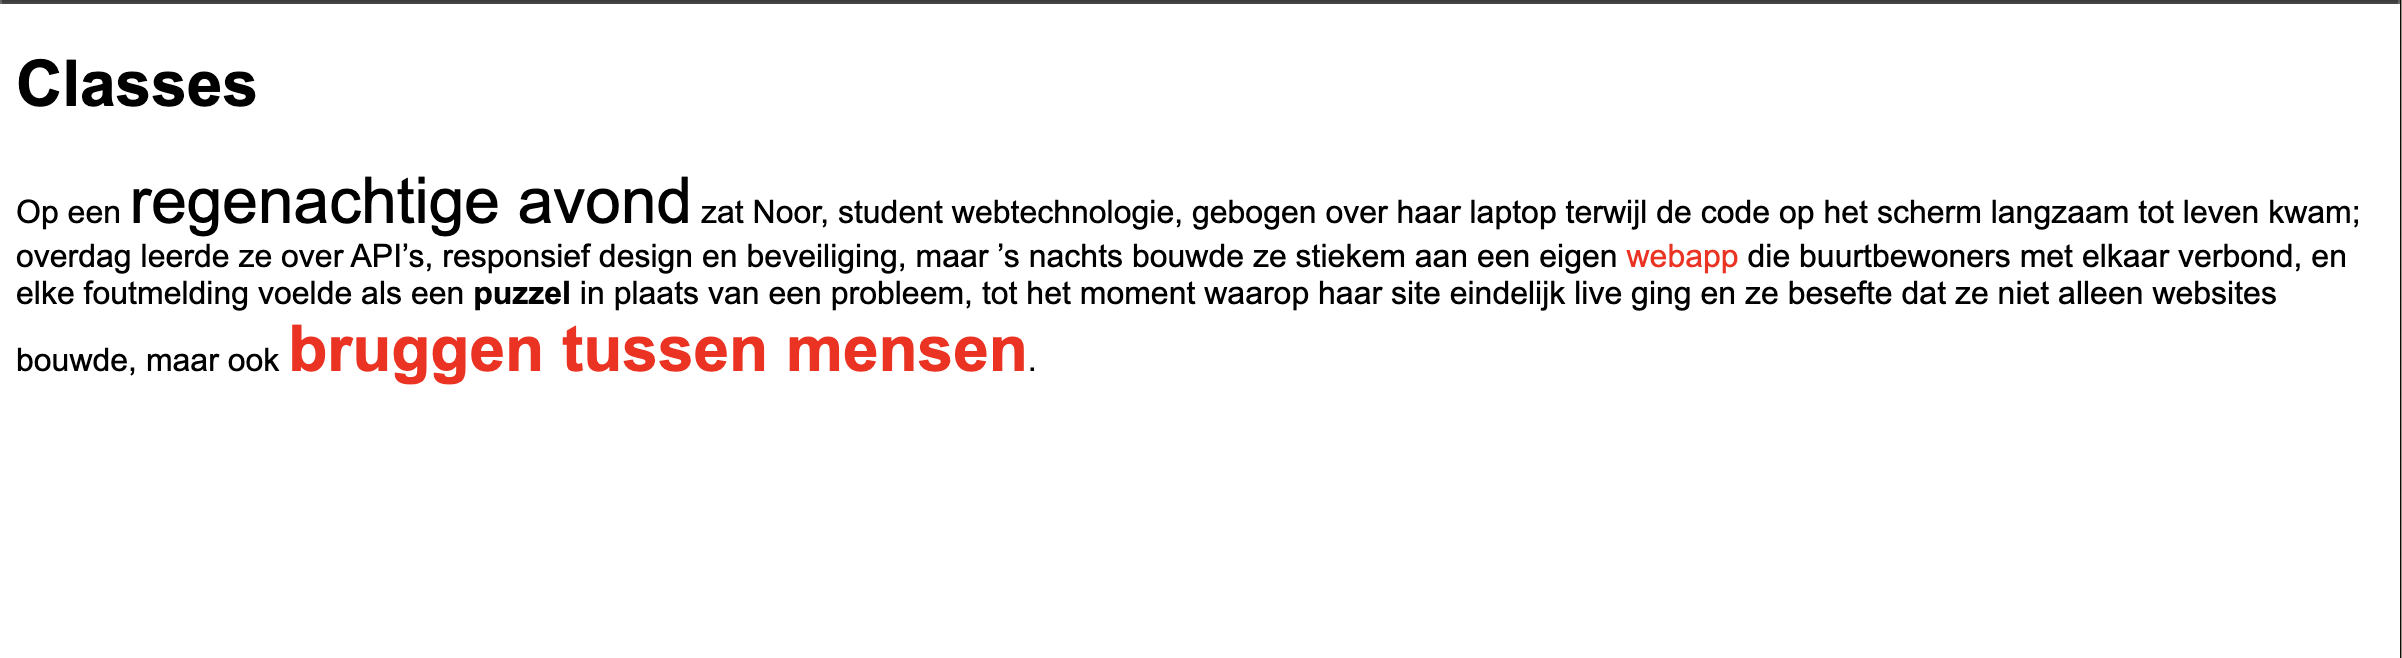
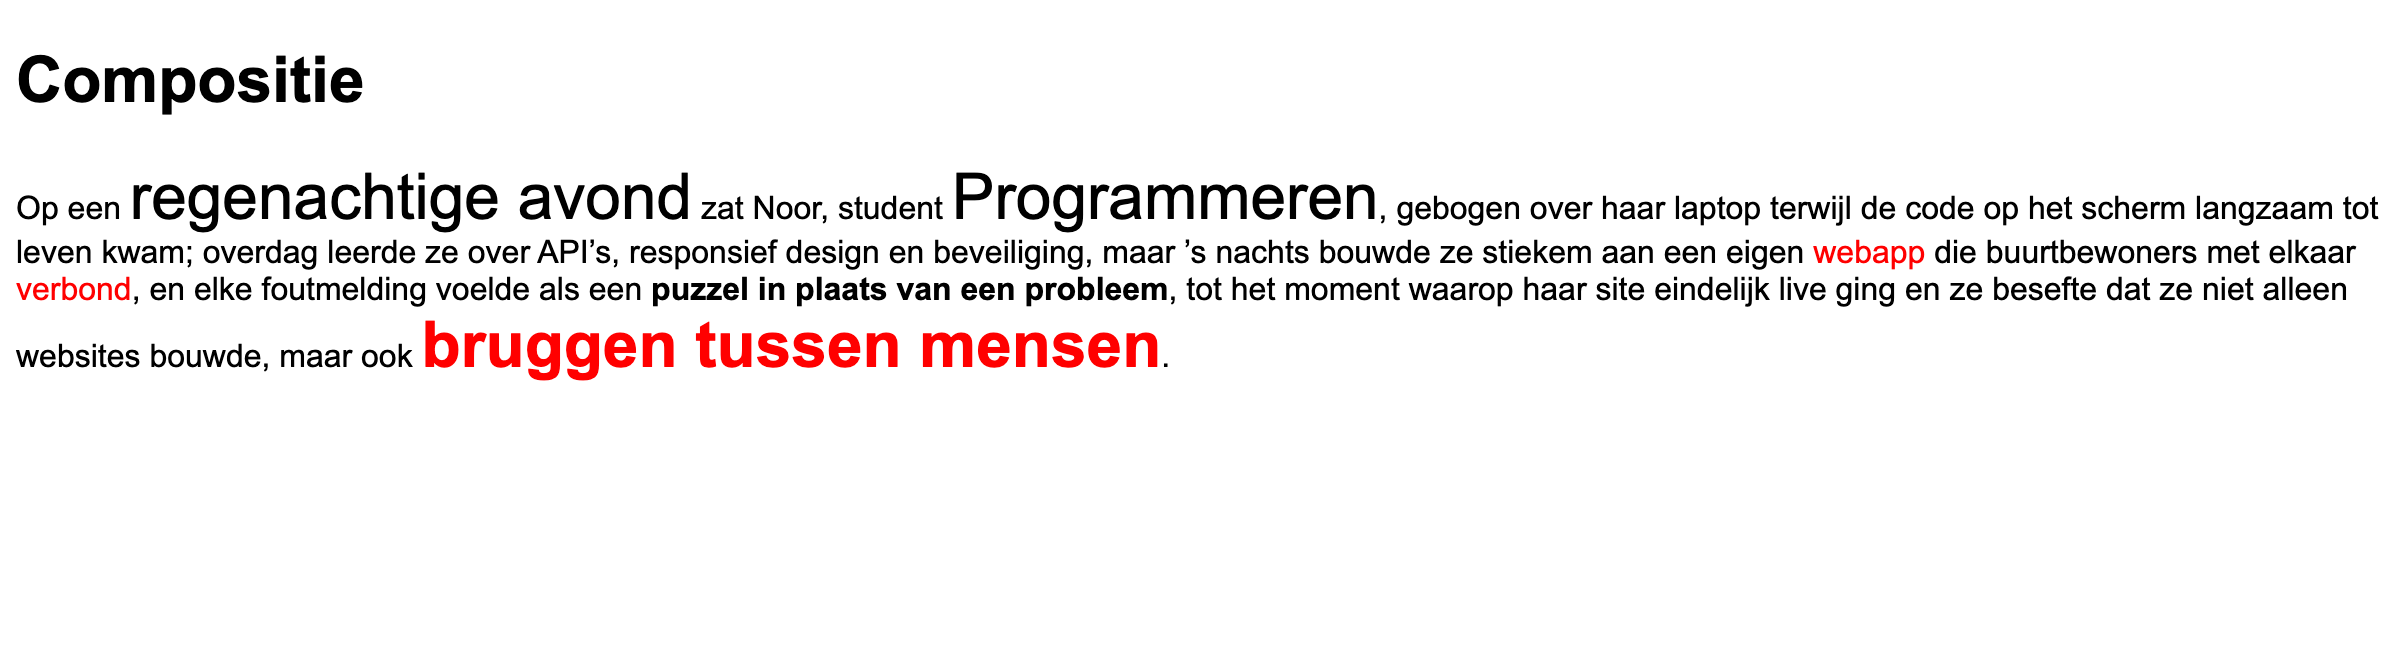
Sync from monorepo commit: 5318ed5f7d0cd7209f82d7640b61d554a2b22dfd

Changed region(s): [[0.0, 0.0, 1.0, 1.0], [0.0, 0.0912, 0.1561, 0.1824]]

diff --git a/compositie/README.md b/compositie/README.md
@@ -15,7 +15,7 @@ websites bouwde, maar ook bruggen tussen mensen.
   * red: geeft de tekst een rode kleur
 * Zorg er nu voor dat de volgende woorden de class `big` krijgen:
   * regenachtige avond
-  * programmeen
+  * Programmeren
 * Zorg er voor dat de volgende woorden de class `bold` krijgen:
   * puzzel in plaats van een probleem
 * Zorg er voor dat de volgende woorden de class `red` krijgen:

diff --git a/background/README.md b/background/README.md
@@ -11,3 +11,7 @@ Bouw de opmaak uit `opgave.png` na.
     * h1: `darkcyan`
     * h2: `#ee3e80`
   * de paragraaf krijgt een witte achtergrond en `#64645a` als tekstkleur
+
+## Verwacht resultaat
+
+![background](./opgave.png)
